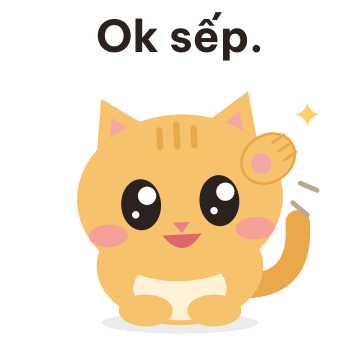
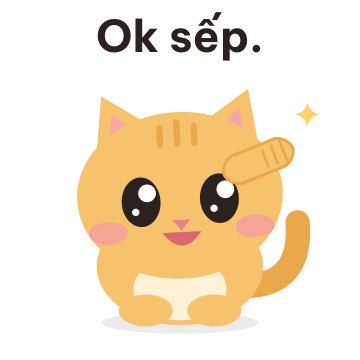
Sticker list: the author's shortlist of 33 in one list grouped by type; Còn lâu, Sinh nhật vui vẻ, Yêu quá, Rất tiếc and Ok sếp edited as asked

diff --git a/docs/plans/assets/stickers/build_stickers.py b/docs/plans/assets/stickers/build_stickers.py
@@ -652,9 +652,12 @@ def cute_flower():
 
 def cute_birthday():
     hat = '<polygon points="46,28 74,28 60,0" fill="#8ecae6"/><polygon points="53,28 67,28 62,12 58,12" fill="#f4a7a7" opacity="0.9"/><circle cx="60" cy="0" r="3.6" fill="#ffd166"/>'
-    cake = ('<rect x="42" y="98" width="36" height="15" rx="3" fill="#fff1d6" stroke="#e9a94a" stroke-width="1.1"/>'
-            '<path d="M42 102 q4 5 9 0 q4 5 9 0 q4 5 9 0 q4 5 9 -1 v-5 h-36z" fill="#f4a7a7"/>'
-            '<rect x="59" y="88" width="3" height="10" fill="#8ecae6"/><ellipse cx="60.5" cy="85" rx="2.2" ry="3.4" fill="#ffb347"/>')
+    cake = ('<rect x="42" y="100" width="36" height="14" rx="3" fill="#fff1d6" stroke="#e9a94a" stroke-width="1.1"/>'
+            '<path d="M42 104 q4 5 9 0 q4 5 9 0 q4 5 9 0 q4 5 9 -1 v-5 h-36z" fill="#f4a7a7"/>'
+            '<rect x="58.5" y="84" width="3.6" height="16" rx="1" fill="#8ecae6"/><path d="M58.5 90 l3.6 -2 M58.5 95 l3.6 -2" stroke="#fff" stroke-width="1.2"/>'
+            '<path d="M60.3 72 Q66 80 62.5 84 Q60.3 86 58 84 Q54.5 80 60.3 72Z" fill="#ff8a3d"/>'
+            '<path d="M60.3 77 Q63 81 61.5 83.5 Q60.3 85 59 83.5 Q57.5 81 60.3 77Z" fill="#ffd166"/>'
+            + stroke_path("M52 75 l-4 -3 M68 75 l4 -3 M60.3 66 l0 -4", "#ffb347", 1.8))
     return cat(SIT_F, dict(LOOK["happy"], dy=0, cheek=0.9)) + hat + cake
 
 
@@ -751,9 +754,10 @@ def fr_shrug():
 
 
 def fr_dream_on():
-    """A cheeky "as if": eyes shut tight (downward curves, not the happy arcs), head tipped away, the tongue stuck out."""
-    return (cat(STAND_F, dict(LOOK["rest"], lid=0.06, roll=12, dy=-2, mouth="smile", cheek=0.7)) + ell(63.5, 87, 3.6, 5, "#ef6f7e", 12)
-            + stroke_path("M98 40 l8 -4 M102 49 l10 -1 M100 58 l8 3", "#b9a98f", 2))
+    """"Lêu lêu": a wink, the head tipped back and a big tongue stuck out."""
+    tongue = ('<path d="M55 82 Q55 98 60 98 Q65 98 65 82Z" fill="#ef6f7e"/><path d="M60 86 L60 95" stroke="#c94f5f" stroke-width="1.4" stroke-linecap="round"/>')
+    return (cat(STAND_F, dict(LOOK["rest"], wink=1, mouth="none", roll=10, dy=-2, cheek=0.9)) + stroke_path("M53 80 Q60 85 67 80", MOUTH, 1.9) + tongue
+            + stroke_path("M100 44 l8 -4 M104 53 l10 -1 M102 62 l8 3", "#b9a98f", 2))
 
 
 def fr_really():
@@ -874,8 +878,10 @@ def of_seen():
 
 
 def of_ok_boss():
-    return (cat(STAND_F, dict(LOOK["rest"], wide=0.6, mouth="open", cheek=0.9, roll=-3)) + paw(96, 48, 9.5, 11.5, 55, True) + star(112, 30, 5, "#ffd166")
-            + stroke_path("M109 58 l7 3 M106 66 l6 5", "#b9a98f", 2))
+    """A military salute: the flat paw at the brow above the right eye, palm down, toes together; chest out, a sharp smile."""
+    hand = ('<g transform="translate(92,49) rotate(-22)"><rect x="-15" y="-6" width="30" height="12" rx="6" fill="#f6c26b" stroke="#e9a94a" stroke-width="1.2"/>'
+            '<path d="M7 -4 L7 4 M11 -4.5 L11 4.5 M3 -3.5 L3 3.5" stroke="#e9a94a" stroke-width="1.1" stroke-linecap="round"/></g>')
+    return cat(STAND_F, dict(LOOK["rest"], wide=0.4, mouth="open", cheek=0.8, roll=-3, dy=-1)) + hand + star(112, 30, 5, "#ffd166")
 
 
 def of_meeting():
@@ -1019,5 +1025,60 @@ for oi, of_ in enumerate([os.path.join(V1_DIR, "vi", "07.png")] + of_files):
     opg.insert_image(r, filename=of_)
 opg.get_pixmap(dpi=72).save(os.path.join(OF_DIR, "contact_sheet.png"))
 print("pack-office-draft:", len(of_files), "new stickers in", OF_DIR)
+
+# ---- the single list (docs/plans/sticker-list-33.md): the author's shortlist, grouped by type; no categories ----------------
+ART = {}
+for _ident, _text, _art, *_opt in STICKERS:
+    ART[_text] = (_art, _opt[0] if _opt else {})
+for _lst in (CUTE_NEW, FRIENDS_NEW, OFFICE_NEW):
+    for _text, _art, _opt in _lst:
+        ART[_text] = (_art, _opt)
+# (group, key in ART, the text printed on the image if it changes)
+GROUPS = [
+    ("Chào hỏi và ngày tháng", [("Chào buổi sáng!", None), ("Ngủ ngon.", None), ("Buồn ngủ…", None), ("Thứ Sáu rồi!", None)]),
+    ("Yêu thương và lời tử tế", [("Thương quá!", "Yêu quá!"), ("Cảm ơn nha!", None), ("Xin lỗi nhé.", None), ("Quá sức mèo rồi.", "Rất tiếc."),
+                                 ("Chúc mừng nha!", None), ("Sinh nhật vui!", "Sinh nhật vui vẻ!"), ("Cố lên nha!", None)]),
+    ("Vui và phấn khích", [("Haha!", None), ("Sướng quá~", None), ("Hì hì.", None), ("Meo~", None), ("Ú òa!", None), ("Đi chơi đi!", None), ("Hóng!", None)]),
+    ("Buồn và lo", [("Huhu…", None), ("Deadline!", None)]),
+    ("Bất ngờ và nghi ngờ", [("Ơ!", None), ("Ủa?", None), ("Để mình nghĩ…", None)]),
+    ("Trêu và lầy", [("Còn lâu!", None), ("Gớm!", None), ("Xỉu ngang!", None), ("Hừm.", None), ("Ai đợi đâu.", None), ("Giỏi quá.", None), ("Cuộc sống mà.", None)]),
+    ("Đáp lời", [("Ok nè!", None), ("Ok sếp.", None), ("Không nha.", None)]),
+]
+ALL_DIR = os.path.join(os.path.dirname(os.path.abspath(OUT)), "list-33-draft")
+os.makedirs(ALL_DIR, exist_ok=True)
+for _old in os.listdir(ALL_DIR):
+    if _old.endswith(".png"):
+        os.remove(os.path.join(ALL_DIR, _old))
+n_all = 0
+placed = []  # (group, number, file)
+for gname, items in GROUPS:
+    for key, shown in items:
+        n_all += 1
+        aart, aopt = ART[key]
+        asc = aopt.get("scale", S)
+        ainner = wrap(aart(), (360 - 120 * asc) / 2 + aopt.get("dx", 0), 82 - 20 * asc + 8 + aopt.get("dy", 0), asc)
+        apath = os.path.join(ALL_DIR, f"{n_all:02d}.png")
+        png_from(ainner, (360, 360), shown or key, apath)
+        placed.append((gname, n_all, apath, shown or key))
+# a contact sheet, one block per group with its name on top
+cells_per_row, cw, ch, head = 5, 216, 214, 30
+rows_total = sum((len(items) + cells_per_row - 1) // cells_per_row for _, items in GROUPS)
+sd = fitz.open()
+spg = sd.new_page(width=1100, height=rows_total * ch + len(GROUPS) * head + 20)
+spg.draw_rect(spg.rect, color=None, fill=(1, 1, 1))
+spg.insert_font(fontname="hd", fontfile=FONT)
+yy = 10
+for gname, items in GROUPS:
+    spg.insert_text(fitz.Point(12, yy + 20), gname, fontname="hd", fontsize=16, color=(0.35, 0.3, 0.28))
+    yy += head
+    mine = [pl for pl in placed if pl[0] == gname]
+    for gi, (_, num, path, _t) in enumerate(mine):
+        r = fitz.Rect(10 + (gi % cells_per_row) * cw, yy + (gi // cells_per_row) * ch, 10 + (gi % cells_per_row) * cw + 206, yy + (gi // cells_per_row) * ch + 206)
+        spg.draw_rect(r, color=(0.85, 0.85, 0.85), fill=(0.97, 0.97, 0.97))
+        spg.insert_image(r, filename=path)
+        spg.insert_text(fitz.Point(r.x0 + 4, r.y1 - 4), f"{num:02d}", fontname="hd", fontsize=11, color=(0.5, 0.5, 0.5))
+    yy += ((len(mine) + cells_per_row - 1) // cells_per_row) * ch
+spg.get_pixmap(dpi=72).save(os.path.join(ALL_DIR, "contact_sheet.png"))
+print("list-33-draft:", n_all, "stickers in", ALL_DIR)
 
 print("done", len(made), "stickers in", OUT)

diff --git a/docs/plans/sticker-list-33.md b/docs/plans/sticker-list-33.md
@@ -1,0 +1,61 @@
+# The sticker list: 33 stickers in one list (2026-11-12)
+
+Status: **Vinh chose a shortlist on 2026-11-12 and dropped the three-category split** ([`sticker-packs-three-categories.md`](sticker-packs-three-categories.md) and [`sticker-pack-2-office.md`](sticker-pack-2-office.md) are superseded; they keep the reasoning and the drawings of the stickers he did not keep). The list below is the one for him to look at: **33 stickers, grouped by type (not by pack)**, with his edits applied. Look at all of them on one page: [`assets/stickers/list-33-draft/contact_sheet.png`](assets/stickers/list-33-draft/contact_sheet.png) (files `01.png` to `33.png` in the same folder, numbered in the order below, Vietnamese text). Rules from before still hold: PNG 360 x 360, transparent, flat, at most 4 words per frame, no arms (Vinh, 2026-11-12), CC BY 4.0.
+
+## 1. The list, by type
+"Now" = already on the website (`set-v1`); "new" = drawn in the first passes of the three packs. "Edit" = Vinh's note, applied.
+
+| # | Type | Quote | Source | Edit applied |
+|---|---|---|---|---|
+| 01 | Chào hỏi và ngày tháng | Chào buổi sáng! | now | |
+| 02 | | Ngủ ngon. | now | |
+| 03 | | Buồn ngủ… | now | |
+| 04 | | Thứ Sáu rồi! | new | |
+| 05 | Yêu thương và lời tử tế | **Yêu quá!** | new | was "Thương quá!" |
+| 06 | | Cảm ơn nha! | now | |
+| 07 | | Xin lỗi nhé. | now | |
+| 08 | | **Rất tiếc.** | now | was "Quá sức mèo rồi."; the picture is the same sad, ears-down face (see question 1) |
+| 09 | | Chúc mừng nha! | new | |
+| 10 | | **Sinh nhật vui vẻ!** | new | was "Sinh nhật vui!"; the candle is taller and the flame is bigger, orange with a yellow core and little rays |
+| 11 | | Cố lên nha! | new | |
+| 12 | Vui và phấn khích | Haha! | now | |
+| 13 | | Sướng quá~ | now | |
+| 14 | | Hì hì. | now | |
+| 15 | | Meo~ | new | |
+| 16 | | Ú òa! | new | |
+| 17 | | Đi chơi đi! | new | |
+| 18 | | Hóng! | new | |
+| 19 | Buồn và lo | Huhu… | now | |
+| 20 | | Deadline! | new | |
+| 21 | Bất ngờ và nghi ngờ | Ơ! | now | |
+| 22 | | Ủa? | new | |
+| 23 | | Để mình nghĩ… | now | |
+| 24 | Trêu và lầy | **Còn lâu!** | new | redrawn as "lêu lêu": a wink and a big tongue stuck out |
+| 25 | | Gớm! | new | |
+| 26 | | Xỉu ngang! | new | |
+| 27 | | Hừm. | now | |
+| 28 | | Ai đợi đâu. | now | |
+| 29 | | Giỏi quá. | now | |
+| 30 | | Cuộc sống mà. | now | |
+| 31 | Đáp lời | Ok nè! | now | |
+| 32 | | **Ok sếp.** | new | redrawn as a military salute: the flat paw at the brow, palm down, toes together |
+| 33 | | Không nha. | now | |
+
+Counts: **18 stickers stay from the website, 15 are new.**
+
+## 2. Not kept (Vinh's shortlist)
+From the website's set: **"Làm chung nhé?"** and **"Hoan hô!"**. From the first passes of the new packs: Ôm cái nè!, Nhớ bạn!, Xoa đầu cái!, Dỗi nè.; Thật hả?, Bó tay., Bao nha!, Khoan đã!, Xạo vừa thôi!; and the office ones Đã xem., Họp nữa à?, Em có nghe mà., Xong rồi nha!, Nhắc nhẹ nhé., Cà phê đâu?, Lương về chưa?, Thứ Hai rồi…, Không phải em., Thu hồi đi!, Mạng lag quá., Tắt mic rồi!, Mai tính nha., Bản cuối. Thật., Sếp tới rồi!, Làm ở nhà. Their pictures stay in the draft folders (`pack-cute-draft`, `pack-friends-draft`, `pack-office-draft`) for a later pack; they are not on the list.
+
+## 3. What this changes
+1. **The website.** The page shows one pack. The list is 33, so the manifest and the page must show 33 (the page should not assume 20). **Hoan hô! and Làm chung nhé? leave the page when it moves to the new list.** Until Vinh approves the list and a handoff is written, the website stays as it is (the answer given on 2026-11-12: the page moves once, when ready).
+2. **Zalo (not planned now).** A set has 12 to 20 stickers, so 33 would be two sets, for example 17 and 16 by type; not decided and not needed for the website.
+3. **Languages.** The 18 kept stickers have Vietnamese, English and Japanese (`set-v1`), but **the text of three of them changes** ("Rất tiếc." replaces "Quá sức mèo rồi.", "Yêu quá!" and "Sinh nhật vui vẻ!" are new wording), and the **15 new ones have Vietnamese only**. Vinh said earlier that the new office ones are Vietnamese first; the cute ones could have English and Japanese. Which languages the new ones get is a question (question 2).
+4. **File numbers.** The files of the final list are numbered 01 to 33 in the order above (so a type is easy to find and the page can group by type from the manifest). The numbers in `set-v1` change.
+
+## 4. Questions for Vinh
+1. **"Rất tiếc."** is the same picture as "Quá sức mèo rồi." (a sad face, ears down, eyes low). Keep it, or draw a different "regret" (a slight bow with eyes closed, or a small sigh cloud)?
+2. **Languages of the 15 new stickers:** Vietnamese only for now, or also English and Japanese (the lines that carry over: Yêu quá!, Chúc mừng nha!, Sinh nhật vui vẻ!, Cố lên nha!, Meo~, Ú òa!, Thứ Sáu rồi!, Deadline!, Đi chơi đi!, Hóng!, Ủa?, Còn lâu!, Gớm!, Xỉu ngang!, Ok sếp.)?
+3. **Order inside a type** is mine (feelings first, then the most used); change the order or the type names as you like.
+
+## 5. Not verified
+That "Ok sếp." reads as a salute and not as a patch on the forehead at 120 px; that the flame on the birthday cake is clear at 120 px; that 33 on one page is easy to browse (the website session's question); the Vietnamese lines have not been read by a native speaker other than the author.

diff --git a/docs/plans/sticker-packs-three-categories.md b/docs/plans/sticker-packs-three-categories.md
@@ -1,6 +1,6 @@
 # Sticker packs: three categories of 20 (proposal, waiting for Vinh's approval)
 
-Status: **approved by Vinh on 2026-11-12 (the lists of section 3, order Cute first). The 10 new Cute stickers are drawn as a first pass (2026-11-12): [`assets/stickers/pack-cute-draft/`](assets/stickers/pack-cute-draft/), `new-01.png` to `new-10.png` and [`contact_sheet.png`](assets/stickers/pack-cute-draft/contact_sheet.png), which shows them under the ten current Cute stickers. The Cute pack was accepted by Vinh the same day. The 11 new Friends stickers are drawn as a first pass, without arms: [`assets/stickers/pack-friends-draft/`](assets/stickers/pack-friends-draft/) (`new-01.png` to `new-11.png` and a contact sheet with the nine current Friends stickers). The Friends pack was accepted by Vinh the same day. The 19 new Office stickers are drawn as a first pass, one prop each and no arms: [`assets/stickers/pack-office-draft/`](assets/stickers/pack-office-draft/) (`new-01.png` to `new-19.png` and a contact sheet with "Làm chung nhé?"). All three packs now have a first pass; nothing is renumbered into final packs, translated or handed to the website yet.** Earlier: proposal 2026-11-12, nothing new drawn. Vinh asked to sort the 20 stickers now on the website (`assets/stickers/set-v1/`, see [`sticker-set-v0.md`](sticker-set-v0.md)) into categories, to add two lists next to the office one, **Dễ thương (cute)** and **Bạn bè (friends)**, all in the voice of a cheeky ("lầy lội") cat, and to complete each list to 20. The office pack was already proposed in [`sticker-pack-2-office.md`](sticker-pack-2-office.md); this document replaces its list (one sticker moves in from the current set, one leaves, see section 4). Rules as before: PNG 360 x 360, transparent, flat, at most 4 words per frame, nothing Zalo bans, the charter (tease the situation, not the person), CC BY 4.0.
+Status: **superseded on 2026-11-12 by [`sticker-list-33.md`](sticker-list-33.md): Vinh chose a shortlist and dropped the three categories.** Earlier: approved by Vinh on 2026-11-12 (the lists of section 3, order Cute first). The 10 new Cute stickers are drawn as a first pass (2026-11-12): [`assets/stickers/pack-cute-draft/`](assets/stickers/pack-cute-draft/), `new-01.png` to `new-10.png` and [`contact_sheet.png`](assets/stickers/pack-cute-draft/contact_sheet.png), which shows them under the ten current Cute stickers. The Cute pack was accepted by Vinh the same day. The 11 new Friends stickers are drawn as a first pass, without arms: [`assets/stickers/pack-friends-draft/`](assets/stickers/pack-friends-draft/) (`new-01.png` to `new-11.png` and a contact sheet with the nine current Friends stickers). The Friends pack was accepted by Vinh the same day. The 19 new Office stickers are drawn as a first pass, one prop each and no arms: [`assets/stickers/pack-office-draft/`](assets/stickers/pack-office-draft/) (`new-01.png` to `new-19.png` and a contact sheet with "Làm chung nhé?"). All three packs now have a first pass; nothing is renumbered into final packs, translated or handed to the website yet.** Earlier: proposal 2026-11-12, nothing new drawn. Vinh asked to sort the 20 stickers now on the website (`assets/stickers/set-v1/`, see [`sticker-set-v0.md`](sticker-set-v0.md)) into categories, to add two lists next to the office one, **Dễ thương (cute)** and **Bạn bè (friends)**, all in the voice of a cheeky ("lầy lội") cat, and to complete each list to 20. The office pack was already proposed in [`sticker-pack-2-office.md`](sticker-pack-2-office.md); this document replaces its list (one sticker moves in from the current set, one leaves, see section 4). Rules as before: PNG 360 x 360, transparent, flat, at most 4 words per frame, nothing Zalo bans, the charter (tease the situation, not the person), CC BY 4.0.
 
 **Rule from Vinh (2026-11-12): never draw arms.** Every sticker drawn with an arm stroke looked wrong. A gesture is shown with paws that sit on or at the edge of the body, a prop, a mark (sparks, arcs) or the face alone; an idea that needs a reaching arm is redesigned. The descriptions in section 3 that mention arms or raised paws on arms are to be read with this rule. Second pass of the ten Cute stickers (same day): the hug is two stubby paws at the sides with hearts; "Cố lên nha!" is a red headband with two small fists at the chest; "Chúc mừng nha!" holds the flower at the chest; "Dỗi nè." has both cheeks puffed evenly; "Sinh nhật vui!" is smaller and lower, clear of the text. The three stickers of the current set that still had a short arm stroke ("Làm chung nhé?", "Giỏi quá.", "Ok nè!") were redrawn the same day on Vinh's word: the paw, the thumbs-up and the ok sign now sit at the edge of the body, with no arm (`set-v0` and `set-v1`, all three languages).
 

diff --git a/docs/plans/sticker-pack-2-office.md b/docs/plans/sticker-pack-2-office.md
@@ -1,6 +1,6 @@
 # Sticker pack 2: the office pack (proposal, waiting for Vinh's approval)
 
-Status: **proposal 2026-11-12. Nothing is drawn. Superseded in part on 2026-11-12 by [`sticker-packs-three-categories.md`](sticker-packs-three-categories.md): Vinh added two more categories (Cute, Friends); the office list there has 19 new stickers plus "Làm chung nhé?" from the current set, and "Để em check." is out.** Asked by Vinh: a second pack of 20 stickers with the emotions and lines that are common in office chats, in the voice of a cheeky ("lầy lội") cat, with **no duplicate** of the 20 stickers of pack 1 (`assets/stickers/set-v1/`, see [`sticker-set-v0.md`](sticker-set-v0.md)). Same rules as pack 1: PNG 360 x 360 with a transparent background, flat, at most 4 words per frame, nothing Zalo bans (ADR-0049), the charter (tease the situation, never the person's worth, ADR-0047), CC BY 4.0 and the Copy-only web page (ADR-0051).
+Status: **superseded on 2026-11-12 by [`sticker-list-33.md`](sticker-list-33.md).** Earlier: proposal 2026-11-12. Nothing is drawn. Superseded in part on 2026-11-12 by [`sticker-packs-three-categories.md`](sticker-packs-three-categories.md): Vinh added two more categories (Cute, Friends); the office list there has 19 new stickers plus "Làm chung nhé?" from the current set, and "Để em check." is out.** Asked by Vinh: a second pack of 20 stickers with the emotions and lines that are common in office chats, in the voice of a cheeky ("lầy lội") cat, with **no duplicate** of the 20 stickers of pack 1 (`assets/stickers/set-v1/`, see [`sticker-set-v0.md`](sticker-set-v0.md)). Same rules as pack 1: PNG 360 x 360 with a transparent background, flat, at most 4 words per frame, nothing Zalo bans (ADR-0049), the charter (tease the situation, never the person's worth, ADR-0047), CC BY 4.0 and the Copy-only web page (ADR-0051).
 
 ## 1. Assessment
 
